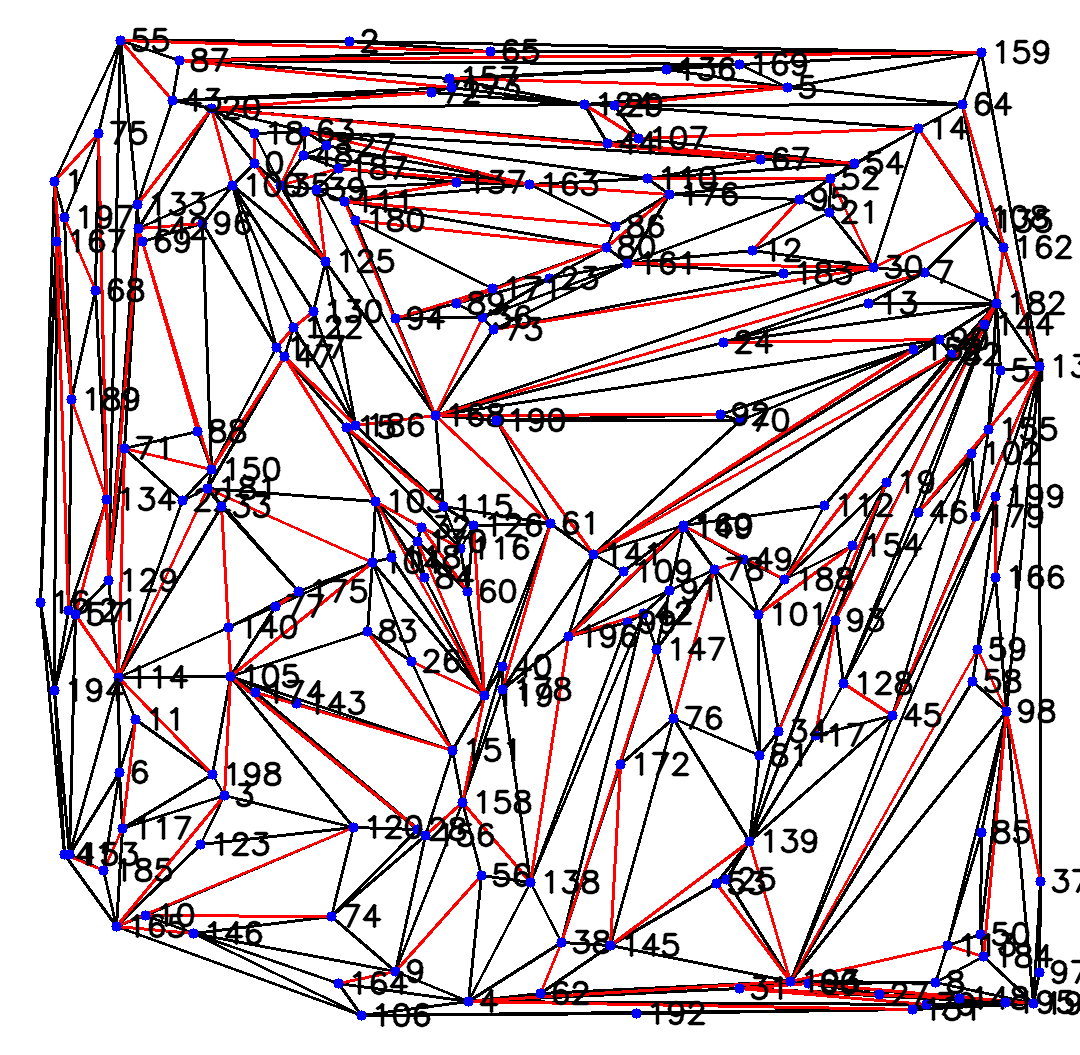
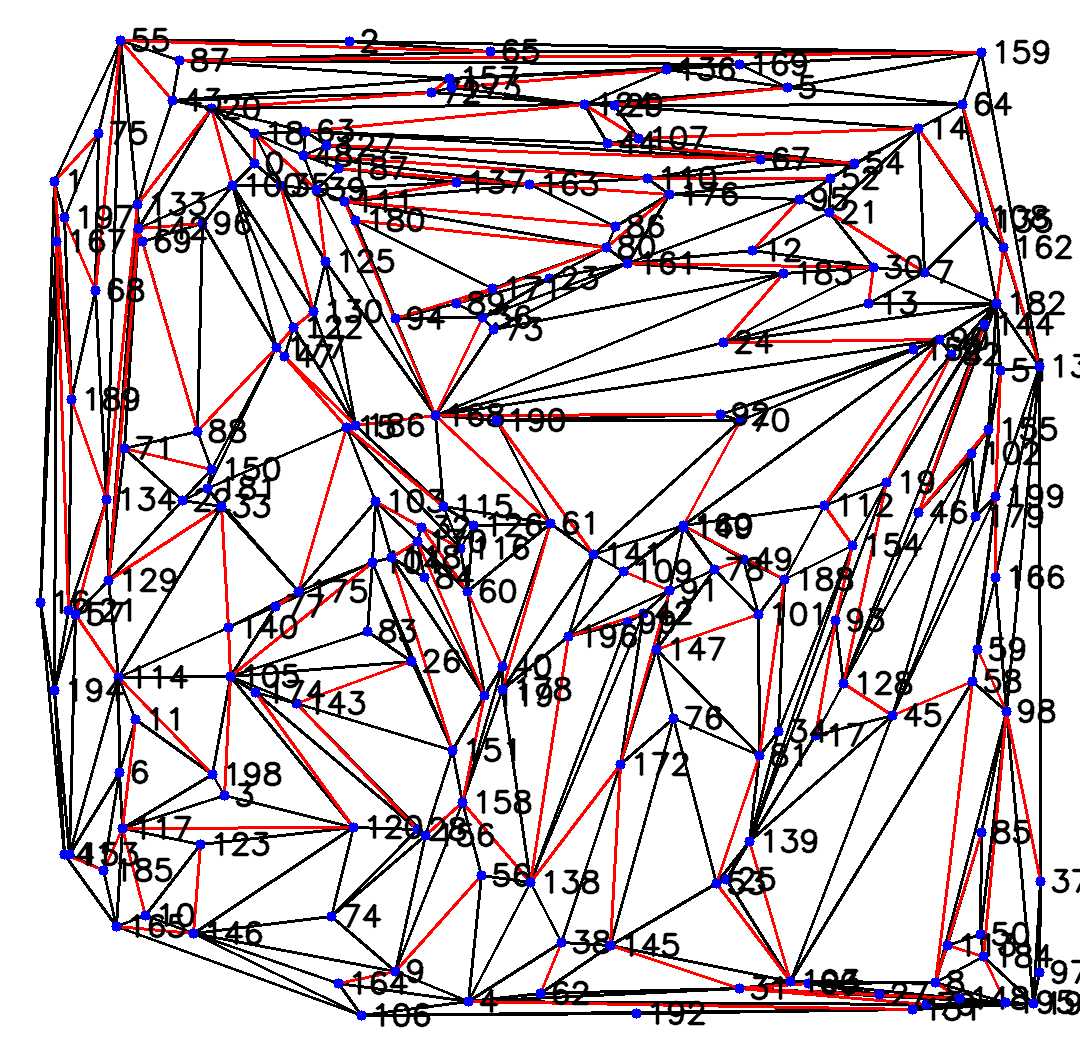
Add sorting

diff --git a/data.py b/data.py
@@ -138,6 +138,7 @@ class Triangulation:
                 else:
                     second_best = e
         if not res:
+            e = second_best
             res.append(e)
             used[e[0]][e[1]] = True
             used[e[1]][e[0]] = True
@@ -238,7 +239,15 @@ class Triangulation:
     def find_difference(self, T):
         e1 = set(self.edges.keys())
         e2 = set(T.edges.keys())
-        return (list(e1-e2), list(e2-e1))
+        def intersect_num(e, l):
+            n = 0
+            for i in l:
+                if self.intersect(e[0],e[1],i[0],i[1]): n+=1
+            return n
+        l1,l2 = list(e1-e2), list(e2-e1)
+        l1.sort(key=lambda x:intersect_num(x,l2), reverse=True)
+        l2.sort(key=lambda x:intersect_num(x,l1), reverse=True)
+        return (l1, l2)
         
     def check_1pfd(self, T):
         E1, E2 = self.find_difference(T)
